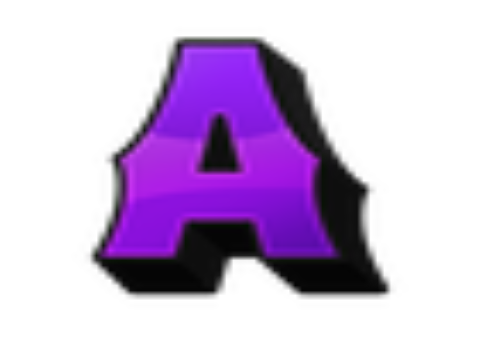
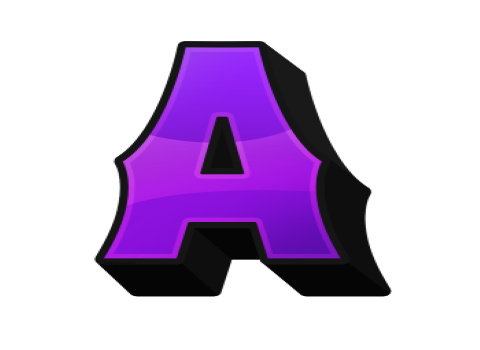
Added Banger racing event and better quality Aussie pic

Changed region(s): [[0.1875, 0.0857, 0.8125, 0.8571], [0.3438, 0.3714, 0.375, 0.4]]

diff --git a/index.html b/index.html
@@ -158,6 +158,21 @@
           </div>
  </div>
       </section>
+      <section class="section section-lg bg-default">
+        <div class="container">
+          <div class="row row-50 flex-lg-row-reverse">
+            <div class="col-lg-6 text-lg-center">
+              <div class="box-image-1"><img src="images/banger-racing.jpg" alt="" width="553" height="158"/>
+              </div>
+            </div>
+            <div class="col-lg-6">
+              <h3>featured event</h3>
+              <p class="text-decoration-custom">BANGER RACING / DEMOLITION DERBY EVENT - May 29, 2021</p>
+              <div class="countdown" data-type="until" data-time="29 May 2021 16:00"></div>
+            </div>
+          </div>
+        </div>
+      </section>
 
       <section class="section section-lg bg-default text-center">
         <div class="container">

diff --git a/js/script.js b/js/script.js
@@ -15,7 +15,7 @@
 		isMobile = /Android|webOS|iPhone|iPad|iPod|BlackBerry|IEMobile|Opera Mini/i.test(navigator.userAgent),
 		windowReady = false,
 		isNoviBuilder = false,
-		livedemo = true,
+		livedemo = false,
 
 		plugins = {
 			bootstrapTooltip:        $( '[data-toggle="tooltip"]' ),
